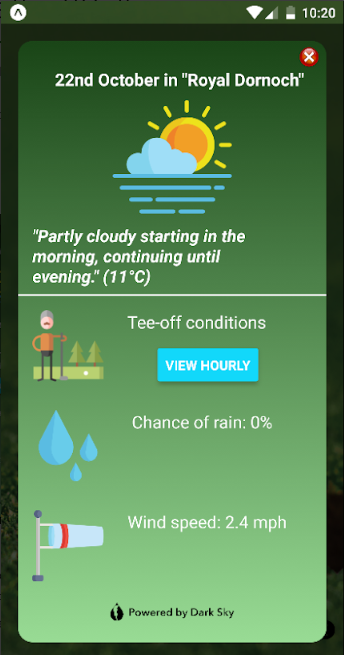
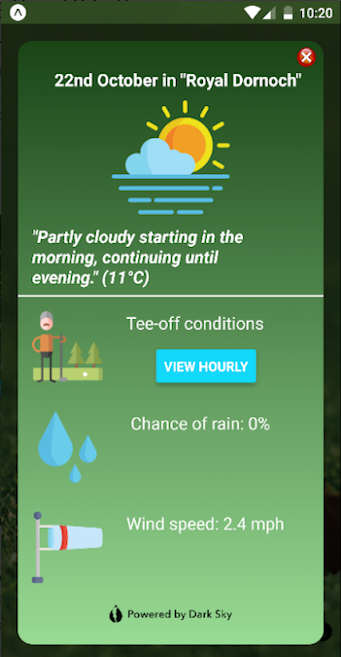
both weather carousels finished with formatting

diff --git a/src/components/Weather2Carousel.js b/src/components/Weather2Carousel.js
@@ -1,6 +1,8 @@
 import React from "react";
 import Arrow from './Arrow.js'
 import ImageSlide from './ImageSlide.js'
+import $ from 'jquery';
+
 const imgUrls = ["../images/w2walk1.png", '../images/w2walk2.png',
   '../images/w2wed1.png',
  '../images/w2wed3.png', '../images/w2golf1.png', '../images/w2golf2.png',
@@ -33,15 +35,49 @@ class Weather2Carousel extends React.Component {
   }
 
   nextSlide () {
+
     const lastIndex = imgUrls.length - 1;
     const { currentImageIndex } = this.state;
     const shouldResetIndex = currentImageIndex === lastIndex;
     const index =  shouldResetIndex ? 0 : currentImageIndex + 1;
 
+    // this.slideAnimationScript();
+
     this.setState({
       currentImageIndex: index
     });
   }
+
+  slideAnimationScript(){
+
+  $(document).ready(function() {
+
+    function disableSlide(){
+
+      $("img.screenshot").removeClass("slide-in");
+
+      setTimeout(reactivateSlide(), 200)
+
+    }
+
+    function reactivateSlide(){
+
+      console.log("slide");
+
+      $("img.screenshot").addClass("slide-in");
+
+    }
+
+    $("td").on('click', 'div', function() {
+
+      setTimeout(disableSlide(), 200)
+
+  })
+
+})
+
+}
+
 
   returnImage(index){
     switch(index) {
@@ -57,6 +93,8 @@ class Weather2Carousel extends React.Component {
   }
 
   render () {
+
+
     return (
       <div className="carousel">
 
@@ -73,7 +111,7 @@ class Weather2Carousel extends React.Component {
 
       </td>
 
-      <td style={{width: '70%', height: '100%'}}>
+      <td style={{width: '100%', height: '100%', justifyContent: 'center'}}>
          <img className="screenshot" src={this.returnImage(this.state.currentImageIndex)} ></img>
       </td>
 

diff --git a/src/App.css b/src/App.css
@@ -164,19 +164,20 @@ p#cf7-weather2_controls-projects {
   color: #334d50;
   cursor: pointer;
   font-size: 2rem;
+  position: absolute;
 }
 
 .weather2-slide-arrow:hover {
   color: #ACBB78;
 }
 
-/* .weather2-slide-arrow.right {
-  right: 50%;
+.weather2-slide-arrow.right {
+  right: 49.5%;
 }
 
 .weather2-slide-arrow.left {
-  left: 15%;
-} */
+  left: 12%;
+}
 
 .fixture-pal-slide-arrow {
   color: #334d50;
@@ -512,11 +513,13 @@ color: white;
 }
 
 @keyframes slide-in {
+    0% { transform: translateX(-10%); }
     100% { transform: translateX(0%); }
 }
 
 @-webkit-keyframes slide-in {
-    100% { -webkit-transform: translateX(0%); }
+  0% { transform: translateX(-10%); }
+  100% { transform: translateX(0%); }
 }
 
 @keyframes slide-out {
@@ -599,11 +602,13 @@ p a {
 }
 
 .screenshot {
-  width: 100%;
+  width: 50%;
   background-color: transparent;
   height: auto;
-  margin-left: 15px;
-  margin-top: 15%;
+  margin-left: 20%;
+  margin-right: 10%;
+  margin-top: 6.5%;
+  border-radius: 10px;
 }
 
 .weather-screenshot {

diff --git a/src/components/ReachCarousel.js b/src/components/ReachCarousel.js
@@ -25,15 +25,15 @@ class ReachCarousel extends React.Component {
       var counter = 1;
 
   $("#cf7_controls").on('click', 'div', function() {
-    console.log("counter", counter);
-    console.log("numPhotos", numberOfPhotos);
+    // console.log("counter", counter);
+    // console.log("numPhotos", numberOfPhotos);
     $("#cf7 img").removeClass("opaque");
 
     // var newImage = $(this).index();
 
     $("#cf7 img").eq(counter).addClass("opaque");
 
-    console.log("image", $("#cf7 img").eq(counter));
+    // console.log("image", $("#cf7 img").eq(counter));
 
     $("#cf7_controls div").removeClass("selected");
     $(this).addClass("selected");
